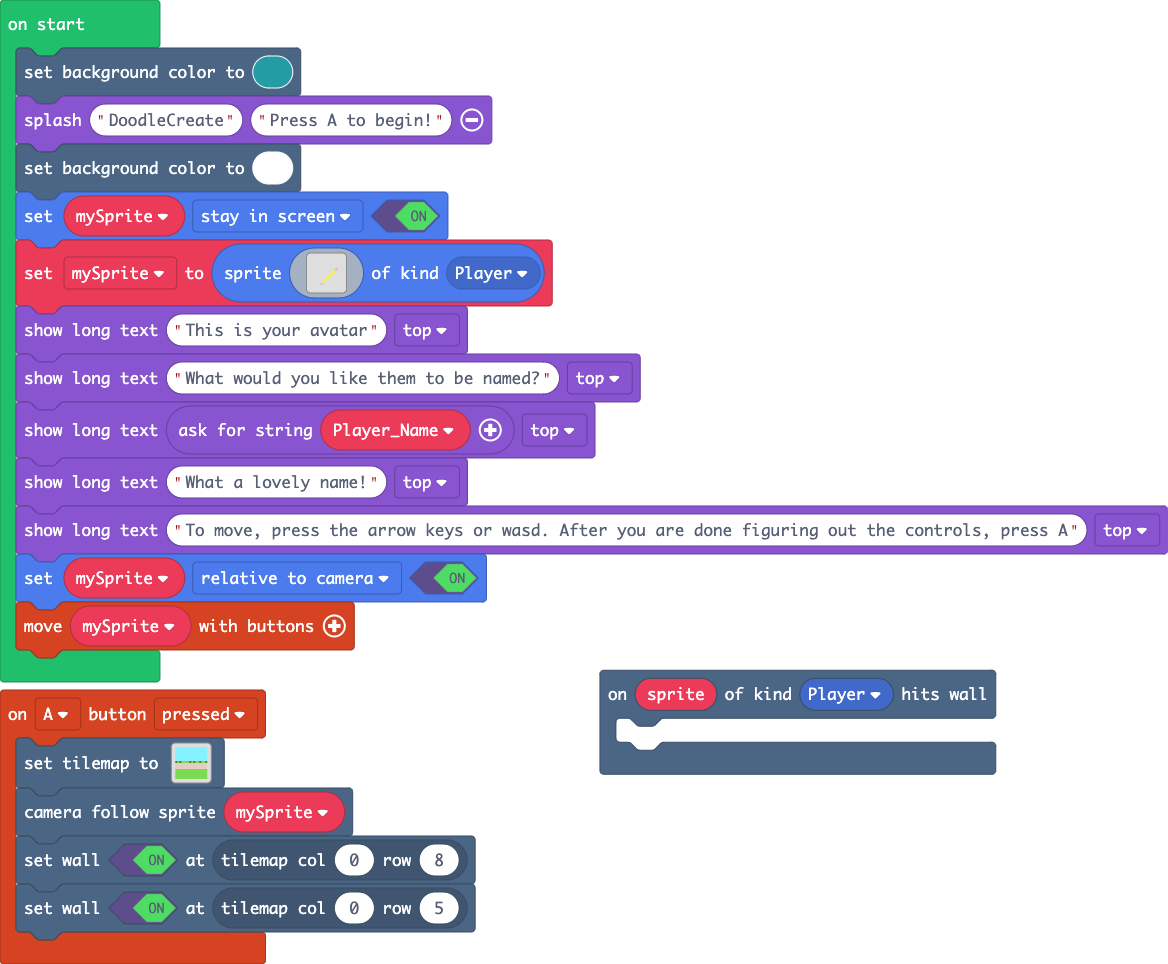
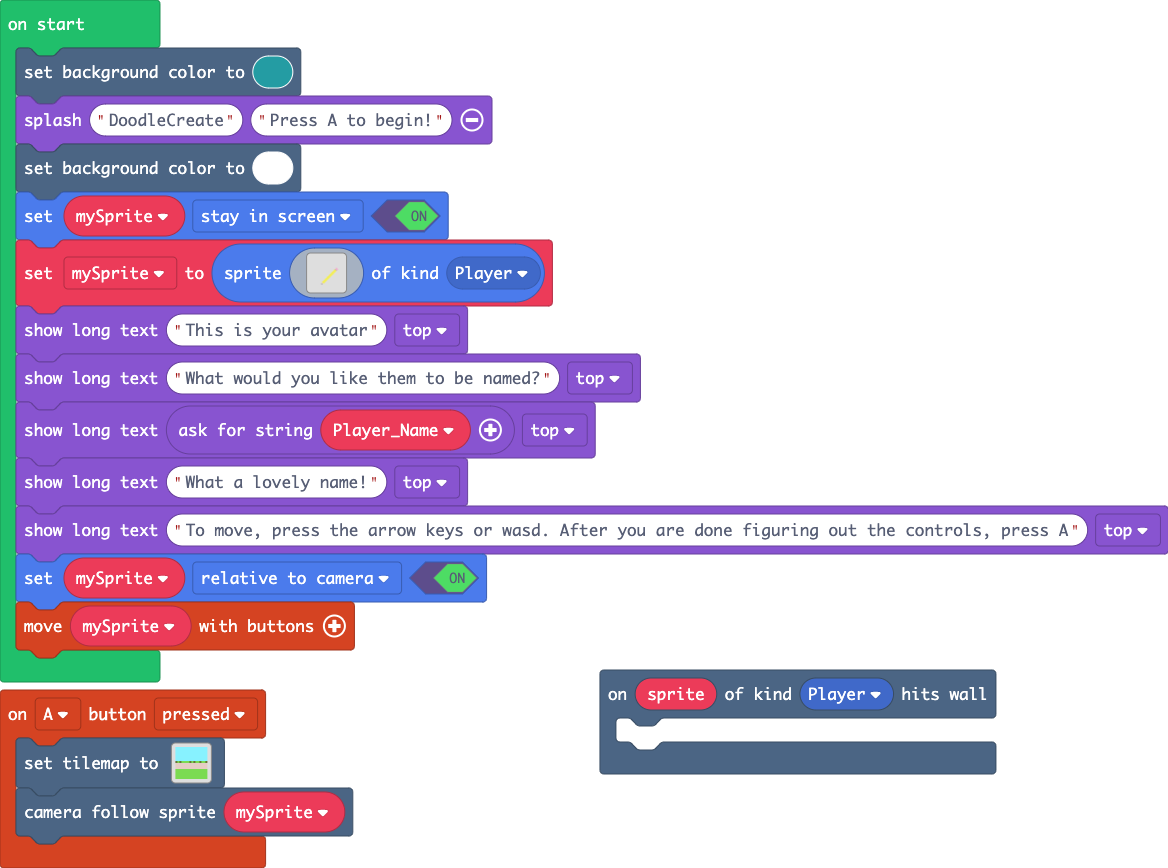
Update main.blocks, main.ts

diff --git a/main.ts b/main.ts
@@ -121,29 +121,27 @@ controller.A.onEvent(ControllerButtonEvent.Pressed, function () {
     tiles.setTilemap(tiles.createTilemap(
             hex`1000100005050505050505050505050505050505050505050505050505050505050505050505050505050505050505050505050505050505050505050505050505050505050505050505050505050505050505050505050505050505050505050505050505050505050505050505050505050505040204020202020402040202040202040303030303030303030303030303030303030303030303030303030303030303030303030303030303030303030303030202020202020202020202020202020202020202020202020202020202020202020202020202020202020202020202020202020202020202020202020202020202020202020202020202020202020202`,
             img`
-. . . . . . . . . . . . . . . . 
-. . . . . . . . . . . . . . . . 
-. . . . . . . . . . . . . . . . 
-. . . . . . . . . . . . . . . . 
-. . . . . . . . . . . . . . . . 
-. . . . . . . . . . . . . . . . 
+2 2 2 2 2 2 2 2 2 2 2 2 2 2 2 2 
+2 2 2 2 2 2 2 2 2 2 2 2 2 2 2 2 
+2 2 2 2 2 2 2 2 2 2 2 2 2 2 2 2 
+2 2 2 2 2 2 2 2 2 2 2 2 2 2 2 2 
+2 2 2 2 2 2 2 2 2 2 2 2 2 2 2 2 
+2 2 2 2 2 2 2 2 2 2 2 2 2 2 2 2 
 2 2 2 2 2 2 2 2 2 2 2 2 2 2 2 2 
 2 2 2 2 2 2 2 2 2 2 2 2 2 2 2 2 
 . . . . . . . . . . . . . . . . 
 . . . . . . . . . . . . . . . . 
 . . . . . . . . . . . . . . . . 
 2 2 2 2 2 2 2 2 2 2 2 2 2 2 2 2 
-. . . . . . . . . . . . . . . . 
-. . . . . . . . . . . . . . . . 
-. . . . . . . . . . . . . . . . 
-. . . . . . . . . . . . . . . . 
+2 2 2 2 2 2 2 2 2 2 2 2 2 2 2 2 
+2 2 2 2 2 2 2 2 2 2 2 2 2 2 2 2 
+2 2 2 2 2 2 2 2 2 2 2 2 2 2 2 2 
+2 2 2 2 2 2 2 2 2 2 2 2 2 2 2 2 
 `,
             [myTiles.tile1,myTiles.tile0,myTiles.tile2,myTiles.tile3,myTiles.tile4,myTiles.tile5],
             TileScale.Sixteen
         ))
     scene.cameraFollowSprite(mySprite)
-    tiles.setWallAt(tiles.getTileLocation(0, 8), true)
-    tiles.setWallAt(tiles.getTileLocation(0, 5), true)
 })
 let Player_Name = ""
 let mySprite: Sprite = null
